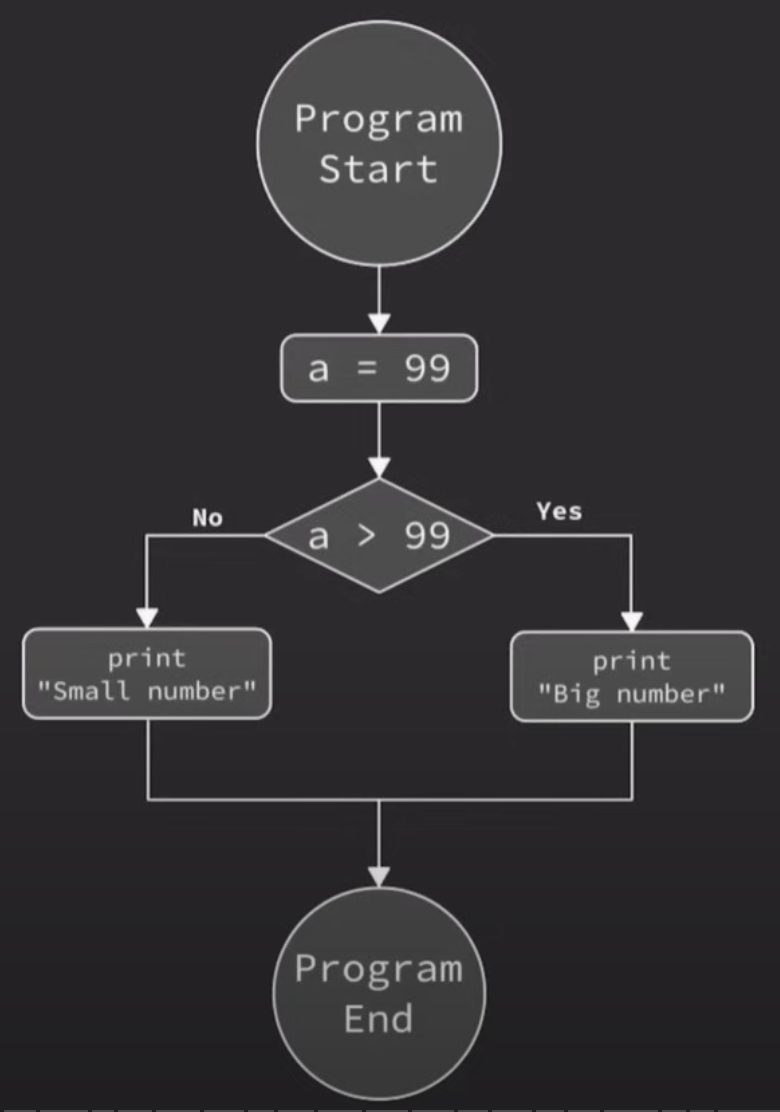
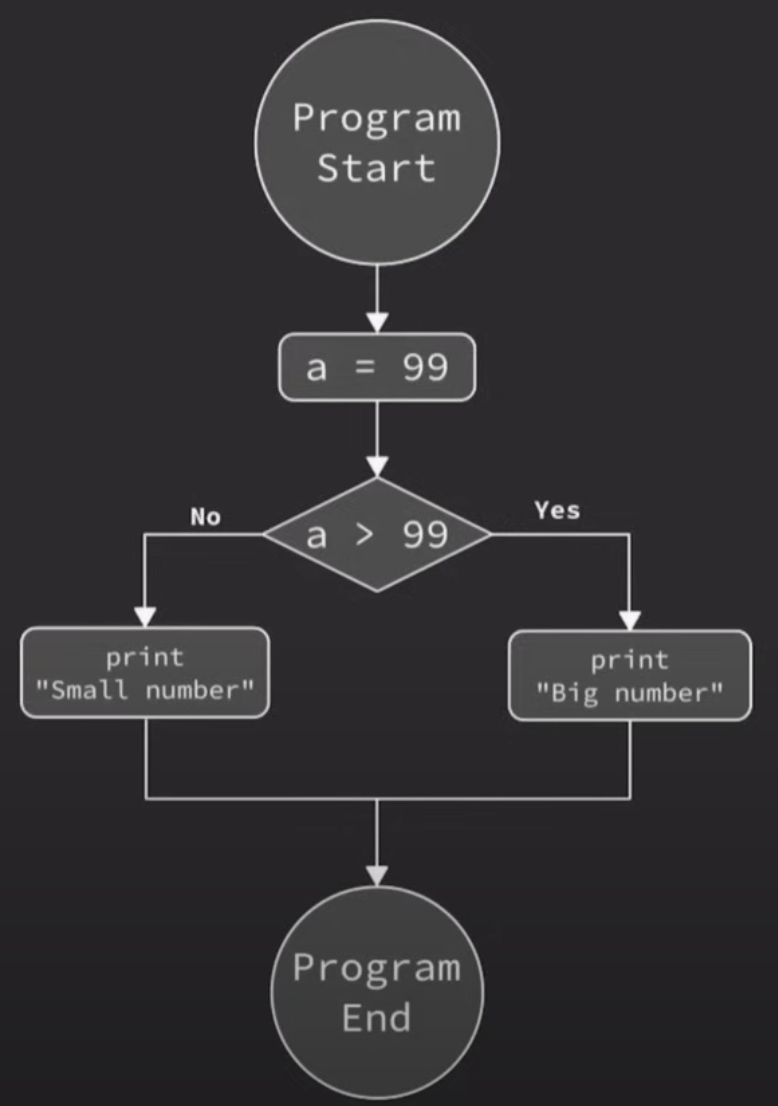
pic is updated

diff --git a/Theory.md b/Theory.md
@@ -119,7 +119,7 @@ println!("{life}"); // printing out END USER DISPLAY version instead of DEBUG ve
 
 # Example for "if" and "else"
 
-(/pics/if-else.png)
+![](/pics/if-else.png)
 
 ```rust
 let a = 99;
